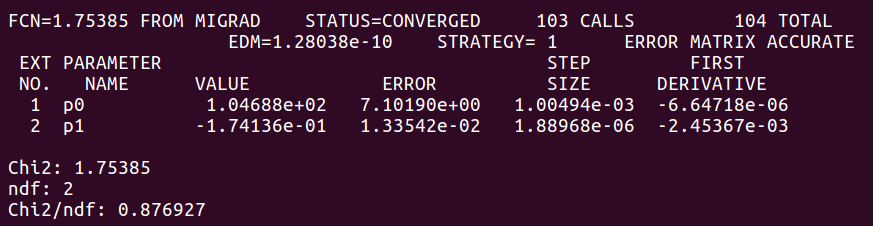
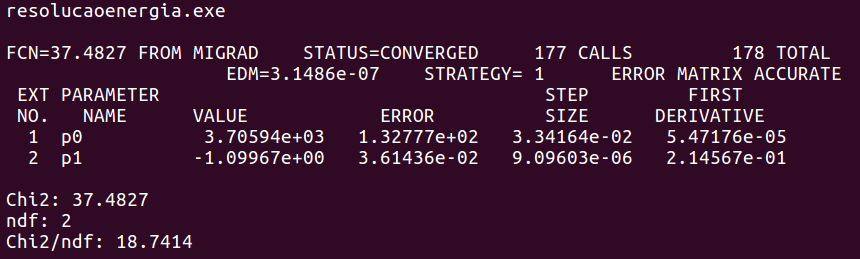
basic commit

diff --git a/beta/resolucaoenergia2.cpp b/beta/resolucaoenergia2.cpp
@@ -80,14 +80,14 @@ int main()
     func1->SetLineWidth(2);
 
     // Set initial values and parameter names
-    func1->SetParameter(0, 500.);
-    func1->SetParameter(1, 0.2);
-    func1->SetParameter(2, -0.6);
+    func1->SetParameter(0, 3700.);
+    func1->SetParameter(1, 0.5);
+    func1->SetParameter(2, -1.1);
 
     // Draw
     DataSaver[0]->Draw("AP");
     DataSaver[0]->Fit("myfit","UR");
-
+»
     // Statistics
     Double_t chi2 = func1->GetChisquare();
     Double_t ndf = func1->GetNDF();
